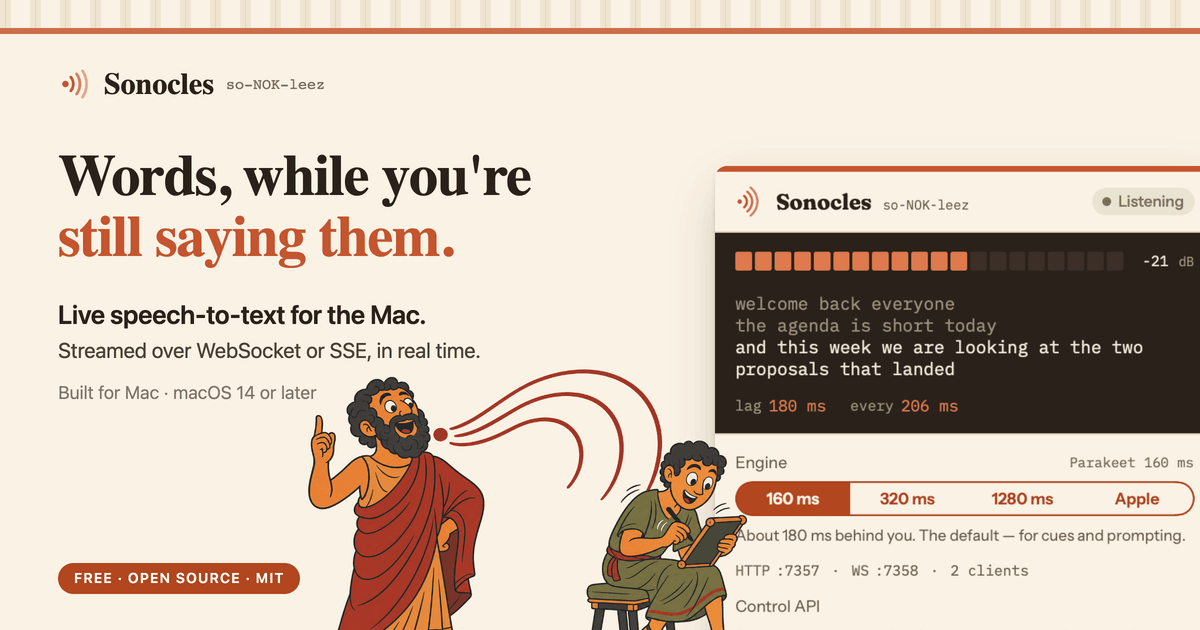
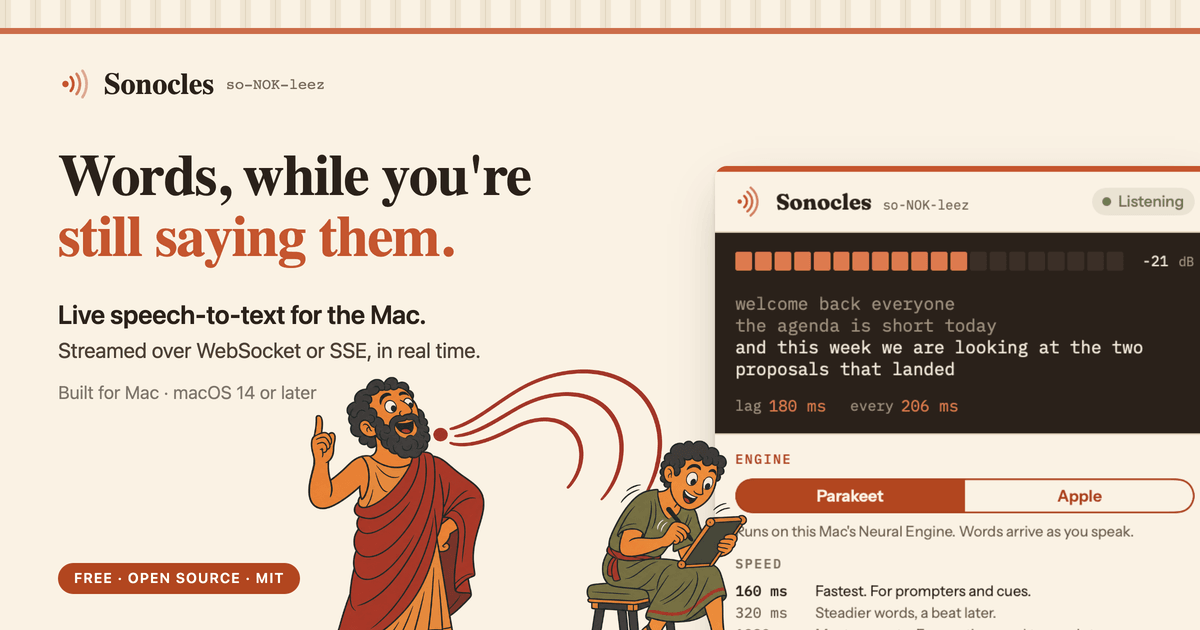
site: the hero and the social card show the redesigned popover
popover.png re-shot from --render-preview (stamped with the nearest
tag), og.png re-rendered with art/og.mjs — transcript and picker whole,
the speed rows readable, the sticker in front. Same scale and offset.

Claude-Session: https://claude.ai/code/session_01KFGfNSKLeFLk2T6cG8SdTr

Changed region(s): [[0.6167, 0.7238, 1.0, 1.0]]

diff --git a/site/og.html b/site/og.html
@@ -10,8 +10,8 @@
   headline with "still saying them." in terracotta, the what-it-is line and
   the streaming line, the muted platform line; the pill in the bottom-left
   corner; the real popover on the right — the app's own --render-preview,
-  its "listening" state (the transcript, the engine picker and its line,
-  the endpoints) — bleeding off the right and the bottom with the
+  its "listening" state (the transcript, the model picker and its line,
+  the speed rows) — bleeding off the right and the bottom with the
   transcript and picker whole; the philosopher
   and the scribe as a sticker (art/sticker.py → src/assets/plates/hero.png) in
   the left column below the copy, 460px wide, his feet just off the bottom,
